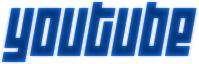
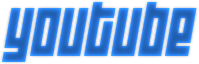
Update

diff --git a/index.html b/index.html
@@ -9,13 +9,31 @@
 	</head>
 	<body>
 		<div id="logo">
-			<img src="res/logo.png"/>
+			<img src="res/logo.png"/><br/>
+			<a href="http://oc.cil.li/index.php?/user/113-pixeltoast/"><img src="res/oc.png"/></a>&nbsp;&nbsp;&nbsp;
+			<a href="http://www.computercraft.info/forums2/index.php?/user/1559-pixeltoast/"><img src="res/cc.png"/></a>&nbsp;&nbsp;&nbsp;
+			<a href="https://github.com/infinikiller64"><img src="res/github.png"/></a>&nbsp;&nbsp;&nbsp;
+			<a href="https://www.youtube.com/user/TheGyroid"><img src="res/youtube.png"/></a>&nbsp;&nbsp;&nbsp;
+			<a href="http://steamcommunity.com/id/TrollGabe/"><img src="res/steam.png"/></a><br><br><br>
 		</div>
-		<a href="http://oc.cil.li/index.php?/user/113-pixeltoast/"><img src="res/oc.png"/></a>&nbsp;&nbsp;&nbsp;
-		<a href="http://www.computercraft.info/forums2/index.php?/user/1559-pixeltoast/"><img src="res/cc.png"/></a>&nbsp;&nbsp;&nbsp;
-		<a href="https://github.com/infinikiller64"><img src="res/github.png"/></a>&nbsp;&nbsp;&nbsp;
-		<a href="https://www.youtube.com/user/TheGyroid"><img src="res/youtube.png"/></a>&nbsp;&nbsp;&nbsp;
-		<a href="http://steamcommunity.com/id/TrollGabe/"><img src="res/steam.png"/></a><br><br><br>
-		<img src="res/kitty.png"/>
+		<div id="main">
+			My projects:<br/>
+			<div id="programs">
+				<a href="https://github.com/infinikiller64/4540D">4540D</a><br/>
+				2014-2015 code for VRC team 4540D, has auton selection and almost perfect shaft encoder functions<br/><br/>
+				<a href="https://github.com/P-T-/less-fail-lua-webserver">Lua webserver</a><br/>
+				Webserver written and scriptable in lua, verry high performance but i need to improve the filesystem buffering<br/><br/>
+				<a href="https://github.com/P-T-/less-fail-lua-ircd">Lua IRC server</a><br/>
+				IRC server written in lua, is misssing some commands and proper channel modes<br/><br/>
+				<a href="https://github.com/P-T-/-v4">^v4</a><br/>
+				Lua IRC bot with a ton of plugins, currently on EsperNet #oc<br/><br/>
+				<a href="https://github.com/OpenPrograms/TCPNet">TCPNet</a><br/>
+				Long range communication in OpenComputers using sockets<br/><br/>
+				<a href="https://github.com/OpenPrograms/Pixel-Programs">PixelPrograms</a><br/>
+				Various OpenComputers programs including: OCI, Mandlebrot, b64, 2048, and holograms<br/><br/>
+				<a href="https://github.com/P-T-/vfs">Virtual filesystem</a><br/>
+				Virtual filesystem for ComputerCraft, allows mounting tables as folders and some other hacks<br/><br/>
+			</table>
+		</div>
 	</body>
 </html>

diff --git a/style.css b/style.css
@@ -1,6 +1,46 @@
 body {
 	margin:0 0 0 0;
-	color:#2269c7;
-	background-image:url("res/bg.png");
+	background-image:url("res/bgwhite.png");
 	text-align:center;
+}
+
+a:link {
+	text-decoration:none;
+	color:#101050;
+}
+a:visited {
+	text-decoration:none;
+	color:#101050;
+}
+a:hover {
+	text-decoration:none;
+	color:#101050;
+}
+a:active {
+	text-decoration:none;
+	color:#101050;
+}
+
+#logo {
+	background-image:url("res/bg.png");
+	width:100%;
+	height:240px;
+}
+
+#main {
+	color:#101010;
+	text-shadow:0px 0px 5px #F0F0F0, 0px 0px 5px #F0F0F0, 0px 0px 5px #F0F0F0;
+	font-family:Arial, Helvetica, sans-serif;
+	font-size:40px;
+}
+
+#programs {
+	margin-left:40;
+	text-align:left;
+	color:#101010;
+	font-size:17px;
+}
+
+#programs a {
+	font-size:24px;
 }
